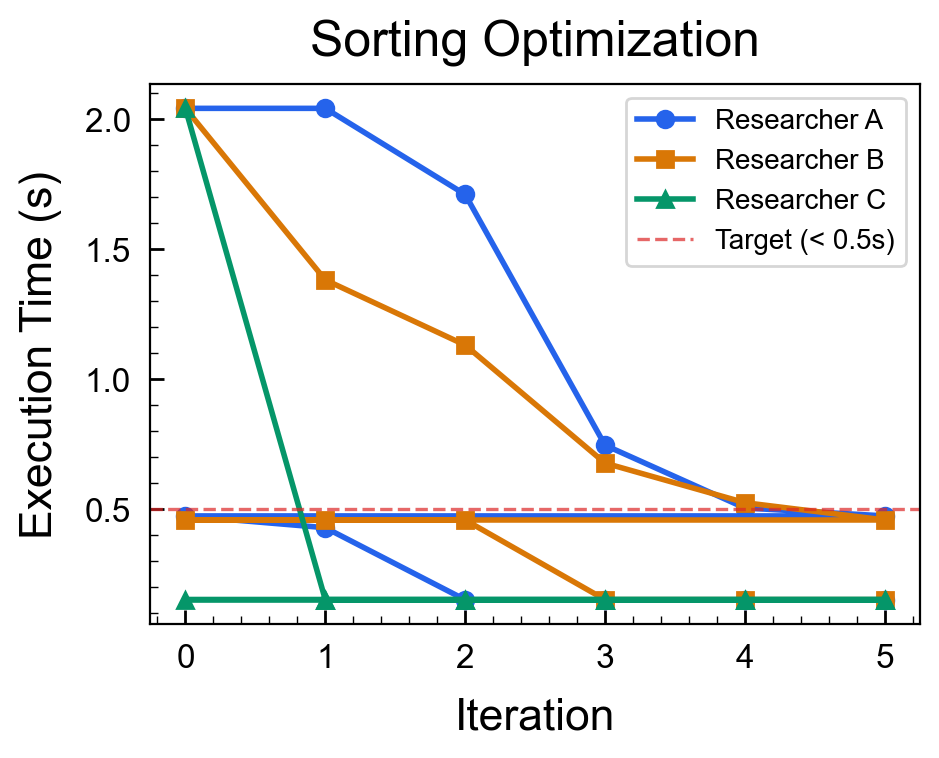
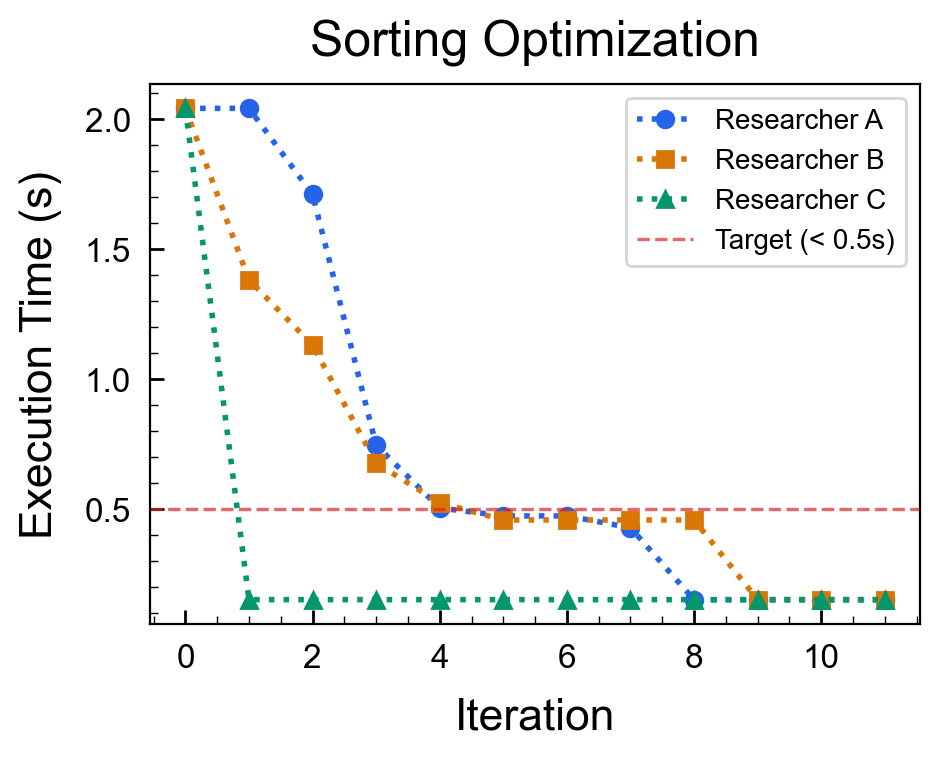
WIP(examples): use global iteration counter and dotted lines in visualize plots
- Replace per-round iteration index with sequential global counter across rounds
- Switch plot linestyle to dotted for best-so-far trajectories
- Apply changes consistently across all four example visualize.py files

diff --git a/examples/code-optimization/visualize.py b/examples/code-optimization/visualize.py
@@ -48,15 +48,17 @@ def setup_rcparams():
 
 
 def load_conference_results(tsv_path):
-    """Load conference_results.tsv and return per-researcher iteration data."""
+    """Load conference_results.tsv with global iteration counter across rounds."""
     researchers = {}
     with open(tsv_path, "r") as f:
         reader = csv.DictReader(f, delimiter="\t")
         for row in reader:
             rid = row["researcher"]
             if rid not in researchers:
-                researchers[rid] = {"iterations": [], "metrics": [], "statuses": []}
-            researchers[rid]["iterations"].append(int(row["iteration"]))
+                researchers[rid] = {"global_iters": [], "metrics": [], "statuses": []}
+            # Use sequential index as global iteration counter
+            idx = len(researchers[rid]["global_iters"])
+            researchers[rid]["global_iters"].append(idx)
             researchers[rid]["metrics"].append(float(row["metric_value"]))
             researchers[rid]["statuses"].append(row["status"])
     return researchers
@@ -79,7 +81,7 @@ def main():
     fig, ax = plt.subplots()
 
     for rid, data in sorted(researchers.items()):
-        iters = data["iterations"]
+        iters = data["global_iters"]
         metrics = data["metrics"]
 
         # Best-so-far trajectory
@@ -93,7 +95,8 @@ def main():
         ax.plot(iters, best_so_far,
                 marker=markers.get(rid, "o"),
                 color=colors.get(rid, "#333"),
-                linewidth=2, markersize=6,
+                linestyle=":", linewidth=2, markersize=6,
+                alpha=1.0,
                 label=f"Researcher {rid}")
 
     # Target line

diff --git a/examples/skill-elaboration/visualize.py b/examples/skill-elaboration/visualize.py
@@ -48,15 +48,16 @@ def setup_rcparams():
 
 
 def load_conference_results(tsv_path):
-    """Load conference_results.tsv and return per-researcher iteration data."""
+    """Load conference_results.tsv with global iteration counter across rounds."""
     researchers = {}
     with open(tsv_path, "r") as f:
         reader = csv.DictReader(f, delimiter="\t")
         for row in reader:
             rid = row["researcher"]
             if rid not in researchers:
-                researchers[rid] = {"iterations": [], "metrics": [], "statuses": []}
-            researchers[rid]["iterations"].append(int(row["iteration"]))
+                researchers[rid] = {"global_iters": [], "metrics": [], "statuses": []}
+            idx = len(researchers[rid]["global_iters"])
+            researchers[rid]["global_iters"].append(idx)
             researchers[rid]["metrics"].append(float(row["metric_value"]))
             researchers[rid]["statuses"].append(row["status"])
     return researchers
@@ -79,7 +80,7 @@ def main():
     fig, ax = plt.subplots()
 
     for rid, data in sorted(researchers.items()):
-        iters = data["iterations"]
+        iters = data["global_iters"]
         metrics = [m * 100 for m in data["metrics"]]  # Convert to percentage
 
         # Best-so-far trajectory (maximize)
@@ -93,7 +94,8 @@ def main():
         ax.plot(iters, best_so_far,
                 marker=markers.get(rid, "o"),
                 color=colors.get(rid, "#333"),
-                linewidth=2, markersize=6,
+                linestyle=":", linewidth=2, markersize=6,
+                alpha=1.0,
                 label=f"Researcher {rid}")
 
     # Target line

diff --git a/examples/literature-review/visualize.py b/examples/literature-review/visualize.py
@@ -48,15 +48,16 @@ def setup_rcparams():
 
 
 def load_conference_results(tsv_path):
-    """Load conference_results.tsv and return per-researcher iteration data."""
+    """Load conference_results.tsv with global iteration counter across rounds."""
     researchers = {}
     with open(tsv_path, "r") as f:
         reader = csv.DictReader(f, delimiter="\t")
         for row in reader:
             rid = row["researcher"]
             if rid not in researchers:
-                researchers[rid] = {"iterations": [], "metrics": [], "statuses": []}
-            researchers[rid]["iterations"].append(int(row["iteration"]))
+                researchers[rid] = {"global_iters": [], "metrics": [], "statuses": []}
+            idx = len(researchers[rid]["global_iters"])
+            researchers[rid]["global_iters"].append(idx)
             researchers[rid]["metrics"].append(float(row["metric_value"]))
             researchers[rid]["statuses"].append(row["status"])
     return researchers
@@ -79,7 +80,7 @@ def main():
     fig, ax = plt.subplots()
 
     for rid, data in sorted(researchers.items()):
-        iters = data["iterations"]
+        iters = data["global_iters"]
         metrics = data["metrics"]
 
         # Best-so-far trajectory (maximize)
@@ -93,7 +94,8 @@ def main():
         ax.plot(iters, best_so_far,
                 marker=markers.get(rid, "o"),
                 color=colors.get(rid, "#333"),
-                linewidth=2, markersize=6,
+                linestyle=":", linewidth=2, markersize=6,
+                alpha=1.0,
                 label=f"Researcher {rid}")
 
     # Target line

diff --git a/examples/prompt-optimization/visualize.py b/examples/prompt-optimization/visualize.py
@@ -48,15 +48,16 @@ def setup_rcparams():
 
 
 def load_conference_results(tsv_path):
-    """Load conference_results.tsv and return per-researcher iteration data."""
+    """Load conference_results.tsv with global iteration counter across rounds."""
     researchers = {}
     with open(tsv_path, "r") as f:
         reader = csv.DictReader(f, delimiter="\t")
         for row in reader:
             rid = row["researcher"]
             if rid not in researchers:
-                researchers[rid] = {"iterations": [], "metrics": [], "statuses": []}
-            researchers[rid]["iterations"].append(int(row["iteration"]))
+                researchers[rid] = {"global_iters": [], "metrics": [], "statuses": []}
+            idx = len(researchers[rid]["global_iters"])
+            researchers[rid]["global_iters"].append(idx)
             researchers[rid]["metrics"].append(float(row["metric_value"]))
             researchers[rid]["statuses"].append(row["status"])
     return researchers
@@ -79,7 +80,7 @@ def main():
     fig, ax = plt.subplots()
 
     for rid, data in sorted(researchers.items()):
-        iters = data["iterations"]
+        iters = data["global_iters"]
         metrics = data["metrics"]
 
         # Best-so-far trajectory (maximize)
@@ -93,7 +94,8 @@ def main():
         ax.plot(iters, best_so_far,
                 marker=markers.get(rid, "o"),
                 color=colors.get(rid, "#333"),
-                linewidth=2, markersize=6,
+                linestyle=":", linewidth=2, markersize=6,
+                alpha=1.0,
                 label=f"Researcher {rid}")
 
     # Target line
